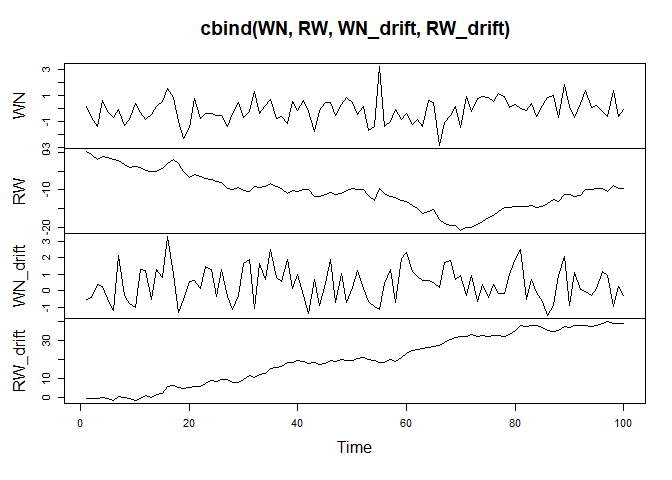
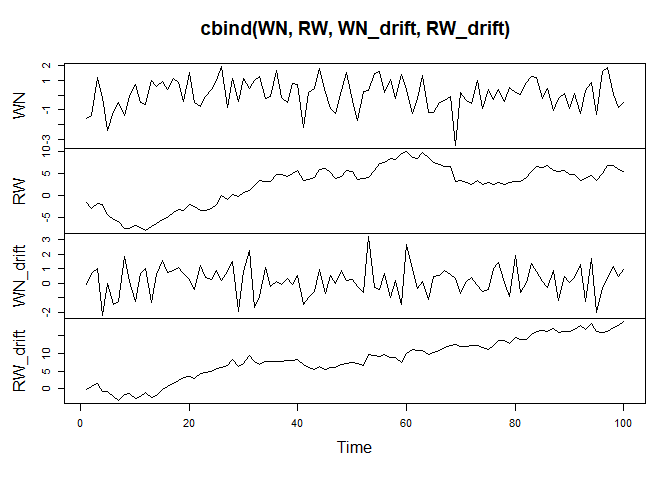
tidied up

diff --git a/2_Predicting_the_future.md b/2_Predicting_the_future.md
@@ -10,9 +10,12 @@ IO
 -   [Removing seasonal trends with seasonal
     differencing](#removing-seasonal-trends-with-seasonal-differencing)
 -   [The white noise (WN) model](#the-white-noise-wn-model)
+-   [ARIMA: AutoRegressive, Integrated Moving
+    Average](#arima-autoregressive-integrated-moving-average)
     -   [Estimating the white noise in a time
         series](#estimating-the-white-noise-in-a-time-series)
 -   [The random walk (RW) model](#the-random-walk-rw-model)
+-   [Random walk with a drift](#random-walk-with-a-drift)
     -   [Stimulating a random walk
         model](#stimulating-a-random-walk-model)
     -   [Stimulating a random walk model with a
@@ -102,7 +105,7 @@ trend over time. A weak white noise process has:
 <img src="2_Predicting_the_future_insertimage_3.png" style="width:40.0%" alt="(a) has a upward trend, (b) has a seasonality effect, (c) more variance at the later observations, (d) no trend, a constant variance, and no correlation over time, so a WN model" /><figcaption aria-hidden="true">(a) has a upward trend, (b) has a seasonality effect, (c) more variance at the later observations, (d) no trend, a constant variance, and no correlation over time, so a WN model</figcaption>
 </figure>
 
-ARIMA: AutoRegressive, Integrated Moving Average
+## ARIMA: AutoRegressive, Integrated Moving Average
 
 We can use ARIMA models to specify white noise (WN) models.
 
@@ -114,7 +117,7 @@ WN <- arima.sim(model = list(order = c(0,0,0)),
 head(WN)
 ```
 
-    ## [1]  0.2729796  0.1782963 -0.3193429 -1.0945342 -0.6523409  0.2817019
+    ## [1]  3.0138939  0.9501910  0.1768304  0.1253117  0.9704058 -0.1462269
 
 ``` r
 ts.plot(WN)
@@ -149,22 +152,22 @@ arima(WN_1,
     ## 
     ## Coefficients:
     ##       intercept
-    ##          4.0207
-    ## s.e.     0.2938
+    ##          3.3978
+    ## s.e.     0.2365
     ## 
-    ## sigma^2 estimated as 4.317:  log likelihood = -107.51,  aic = 219.02
+    ## sigma^2 estimated as 2.796:  log likelihood = -96.65,  aic = 197.3
 
 ``` r
 mean(WN_1)
 ```
 
-    ## [1] 4.020735
+    ## [1] 3.397843
 
 ``` r
 var(WN_1)
 ```
 
-    ## [1] 4.405029
+    ## [1] 2.852602
 
 ## The random walk (RW) model
 
@@ -172,10 +175,11 @@ A basic time series model and a simple example of an unstable
 (non-stationary) process. They are the cumulative sum (1st obs, 1st +
 2nd obs, 1st + 2nd + 3rd obs, …) of a mean zero white noise series.
 Therefore, first difference (lag 1) gives a WN model. Also, RW models
-are ARIMA(0,1,0) models, which 1 indicates the integration is 1. It has:
+are ARIMA(0,1,0) models, which 1 indicates the integration is 1. The
+have:
 
 -   No specified mean or variance
--   Exhibits strong dependence over time (each observation is strongly
+-   Exhibit strong dependence over time (each observation is strongly
     related to its immediate neighbors)
 -   Its changes or increments are (similar to) white noise, which means
     the change is stable/stationary
@@ -184,38 +188,44 @@ Some RW time series plots:
 
 <img src="2_Predicting_the_future_insertimage_4.png" style="width:60.0%" />
 
-RW recursion:  
-Today (Yt) = Yesterday (Yt - 1) + Noise (Et)
+RW recursion:
 
-The error (Noise of Et) means zero white noise. The variance of this WN
-variance of error is the only parameter of RW.
+> Today (Yt) = Yesterday (Yt - 1) + Noise (Et)
 
-First difference (lag 1) series:  
-Yt - Yt-1 = Et (which is diff(Y), which in itself is a WN series)
+The error (Et as noise) means zero white noise. This variance in the WN
+model’s error is the only parameter of RW.
+
+First difference (lag 1) series logically becomes:
+
+> Et = Yt - Yt-1 (equals to diff(Y), which in itself unwinds to a WN
+> series)
 
 <figure>
 <img src="2_Predicting_the_future_insertimage_5.png" style="width:50.0%" alt="Y is a RW series while diff(Y) becomes a WN series" /><figcaption aria-hidden="true">Y is a RW series while diff(Y) becomes a WN series</figcaption>
 </figure>
 
-Random walk with a drift (with a constant of drift, which drifts/trends
-the values upwards or downwards over time):  
-Today = Constant (c, which works as the slope in the graph) + Yesterday
-+ Noise. This type of RW model increases its parameter size to 2, with a
-constant c and a WN variance Et. This is because if you are getting the
+## Random walk with a drift
+
+RW models with a constant of drift, which means a drifting or trending
+of values upwards or downwards over time.
+
+> Today = Yesterday + Noise + Constant (c, which works as the slope in
+> the graph)
+
+This type of RW model increases its parameter size to 2, with a constant
+c and a WN variance Et. This is because if you are getting the
 cumulative sum of a data with a mean of 0, the data is scattered around
-+ and - values (the values are dependent on the variance) and therefore
-summing the values results in a somewhat stale model, whereas if the
-mean is like 5, since the values are (mostly positive) the trend drifts
-upward and if the mean is -5, the trend drifts downwards.
+positive and negative values (depending on the variance) and therefore
+summing the values results in a somewhat stale model. Whereas if the
+mean is like 5, since the values will mostly be positive, the trend
+drifts upward and if the mean is -5, the trend drifts downwards.
 
 The first difference (lag 1) of a RW with a drift is Yt - Yt-1 = WN
 series (process) with a mean as the c of the constant (i.e., constant +
-noise in a WN model). In another words, unwinds the cumulative sum to
-get the actual data/model. Therefore, if we create a WN process with a
-mean other than 0 and then get its cumulative sum (`cumsum()`), we get a
-RW process/model.
-
-Some RW with a drift plots:
+noise in a WN model). In another words, unwinding the cumulative sum
+from the RW model gets the core data/model of WN. Therefore, if we
+create a WN process with a mean other than 0 and then get its cumulative
+sum, we get a RW process/model.
 
 <figure>
 <img src="2_Predicting_the_future_insertimage_6.png" style="width:50.0%" alt="(a) with a drift constant of 0, which is no drift, (b) positive drift coefficient/constant therefore a trend up, (c) negative drift coefficient/constant, therefore a trend down, (d) larger positive coefficient with a steeper upward trend." /><figcaption aria-hidden="true">(a) with a drift constant of 0, which is no drift, (b) positive drift coefficient/constant therefore a trend up, (c) negative drift coefficient/constant, therefore a trend down, (d) larger positive coefficient with a steeper upward trend.</figcaption>
@@ -277,23 +287,25 @@ somewhat similar from one year to the next.
     time.
     -   Mean and variance Yt is the same (constant) for all times (t).
     -   Covariance of Y at the time t (Yt) and Ys is constant for all
-        t - s = h, meaning the covariance between these times depend on
-        how close these two time points are.
+        times as t - s = h, meaning the covariance between these times
+        depend on how close these two time points are.
         -   Cov(Y2, Y5) = Cov(Y7, Y10)
 
-Stationary models (the process) can be modeled with relatively fewer
+Stationary models (aka processes) can be modeled with relatively fewer
 parameters; there is no need for a different mean for the observation at
 the time t (Yt), all times have a common mean which is the mean of the
 sample.
 
 Many financial time series do not exhibit stationarity but the changes
-in the series are often approximately stationary (constant). A
-stationary series should show some oscillation around some fixed level
+in the series are often approximately stationary (constant), meaning the
+change is relatively the same throughout time.
+
+A stationary series showS some oscillation around some fixed level
 (mean), which is called *mean-reversion*. For example, the inflation
 rates do not naturally come down to a specific level due to being
-controlled by the monitary policy. But the changes in inflation rates
-show a clear mean-reversion to the mean of 0, as policies increase the
-rate at times and decrease at others.
+controlled by monetary policies. But the changes in inflation rates show
+a clear mean-reversion to the mean of 0, as policies increase the rate
+at times and decrease at others.
 
 <figure>
 <img src="2_Predicting_the_future_insertimage_7.png" style="width:50.0%" alt="(top) Inflation rates, (bottom) changes in inflation rates" /><figcaption aria-hidden="true">(top) Inflation rates, (bottom) changes in inflation rates</figcaption>
@@ -304,7 +316,7 @@ stationarity, including time trends, periodicity, and a lack of mean
 reversion.
 
 <figure>
-<img src="2_Predicting_the_future_insertimage_8.png" style="width:50.0%" alt="A shows periodicity, B shows mean-reverting (oscillating around a mean), C shows an upward trend" /><figcaption aria-hidden="true">A shows periodicity, B shows mean-reverting (oscillating around a mean), C shows an upward trend</figcaption>
+<img src="2_Predicting_the_future_insertimage_8.png" style="width:65.0%" alt="(A) periodicity, (B) mean-reverting by oscillating around a mean, (C) an upward trend" /><figcaption aria-hidden="true">(A) periodicity, (B) mean-reverting by oscillating around a mean, (C) an upward trend</figcaption>
 </figure>
 
 WN models are stationary but the RW models are always non-stationary,
